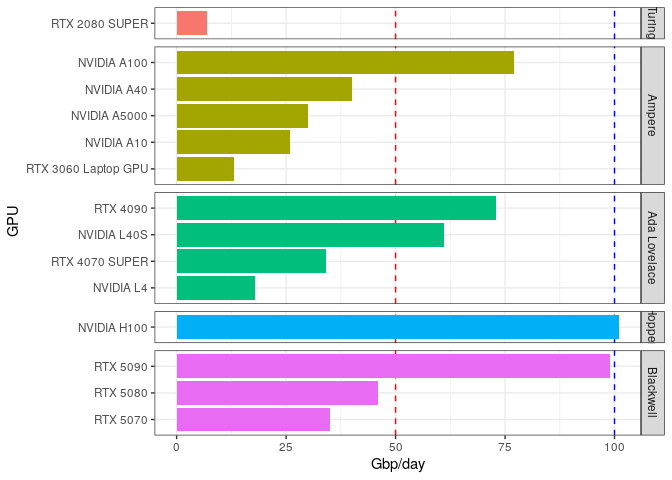
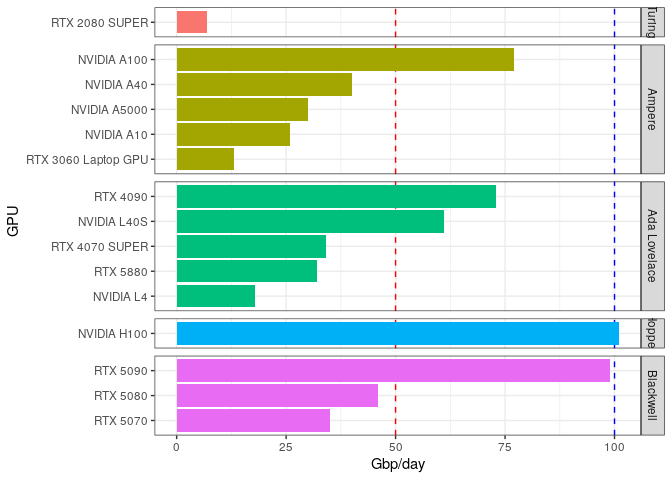
added NVIDIA RTX 5880 Ada Generation

diff --git a/README.md b/README.md
@@ -1,7 +1,7 @@
 README
 ================
 Rasmus Kirkegaard
-10 April, 2025
+11 April, 2025
 
 ## Aim
 
